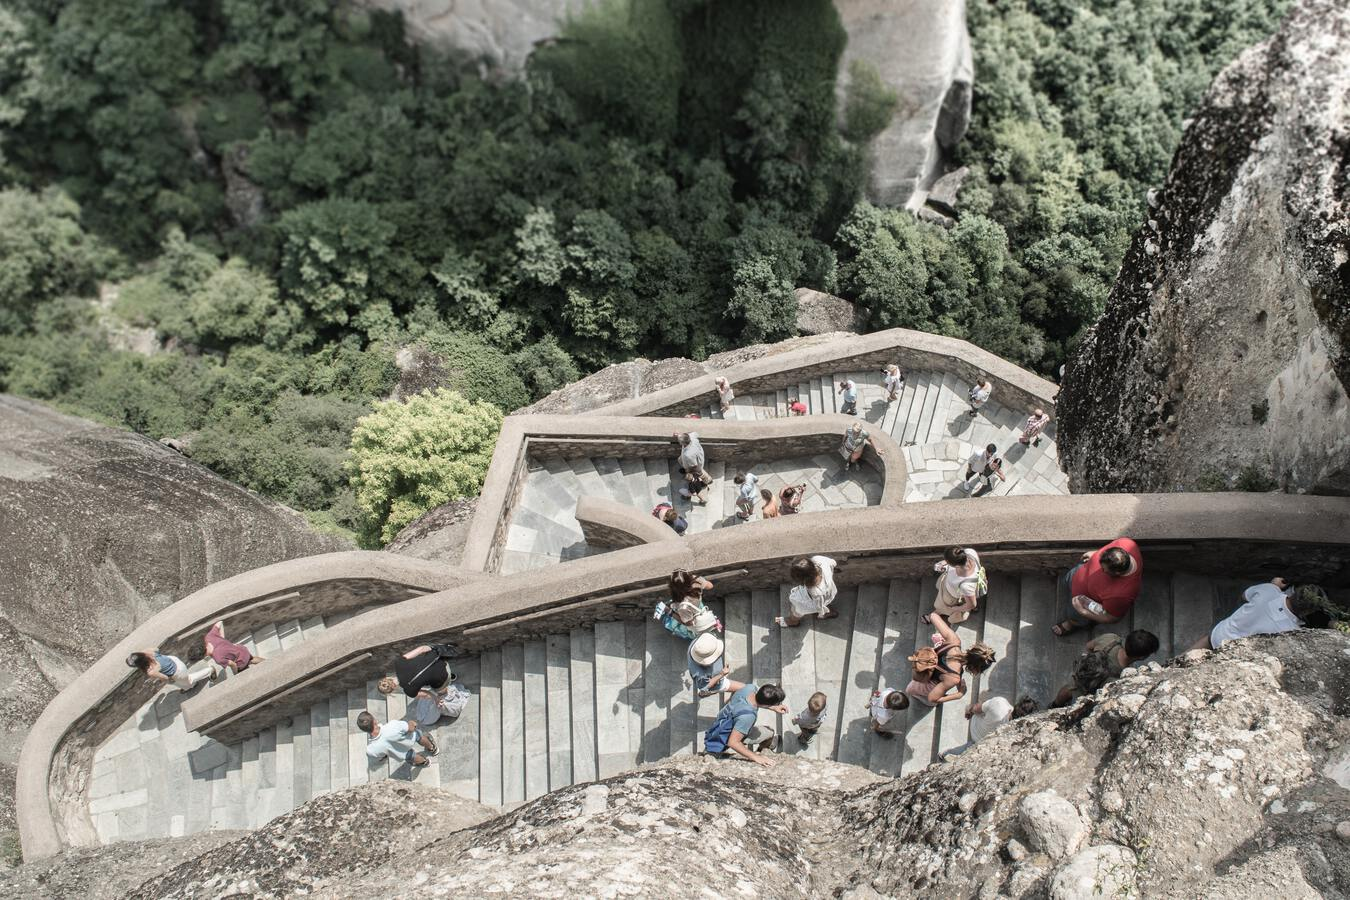
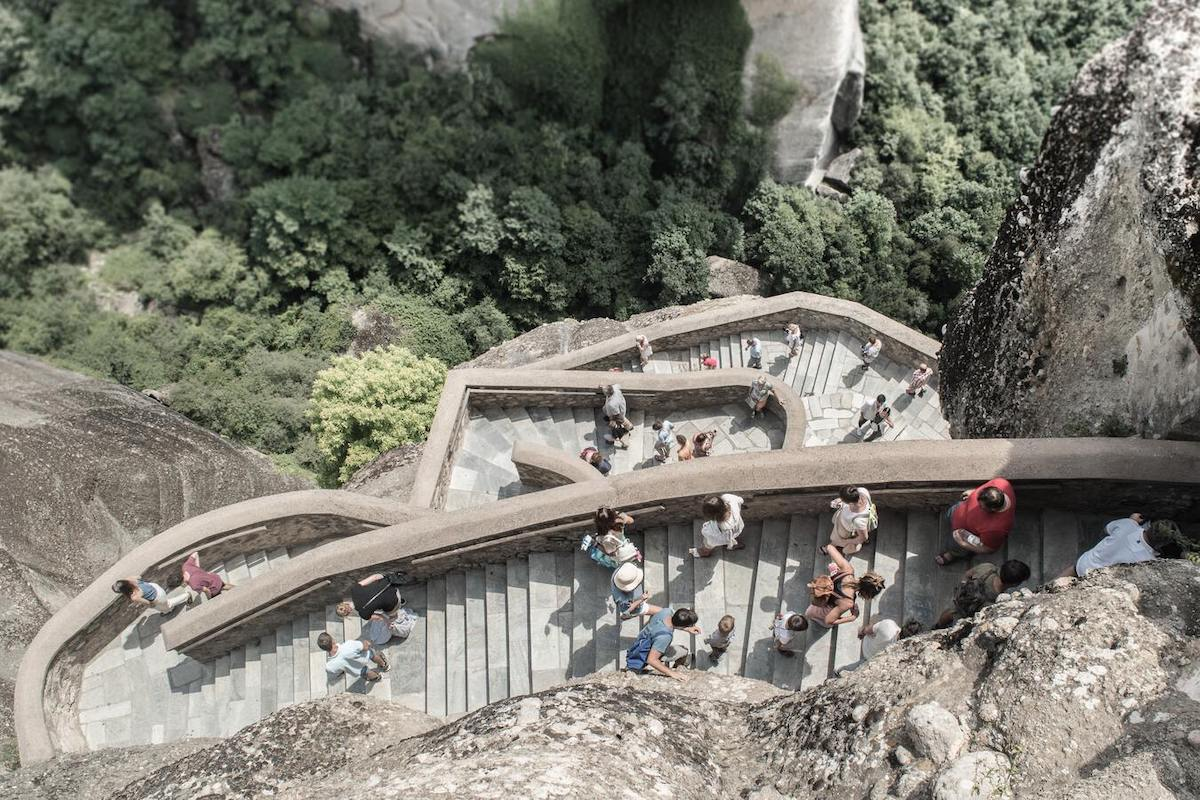
Improves image file sizes

Changed region(s): [[0.9867, 0.25, 1.0, 0.2812], [0.6783, 0.875, 0.7092, 0.9062]]

diff --git a/components/rotating-icons.tsx b/components/rotating-icons.tsx
@@ -20,7 +20,8 @@ export default function RotatingIcons({
   ...rest
 }: {
   current: number
-} & React.HTMLProps<HTMLButtonElement>) {
+  children: React.ReactNode
+} & Pick<React.HTMLProps<HTMLButtonElement>, "onClick", "title">) {
   const icons = Children.toArray(children)
 
   const rPrevious = useRef(current)

diff --git a/components/styles.css b/components/styles.css
@@ -1,4 +1,4 @@
-@import url("https://fonts.googleapis.com/css2?family=Fira+Code&family=Fira+Sans:wght@300;400;600&family=Lora:wght@400;600&display=swap");
+@import url("https://fonts.googleapis.com/css2?family=Fira+Code&family=Fira+Sans:wght@400;600&display=block");
 
 @keyframes bounce {
   from {
